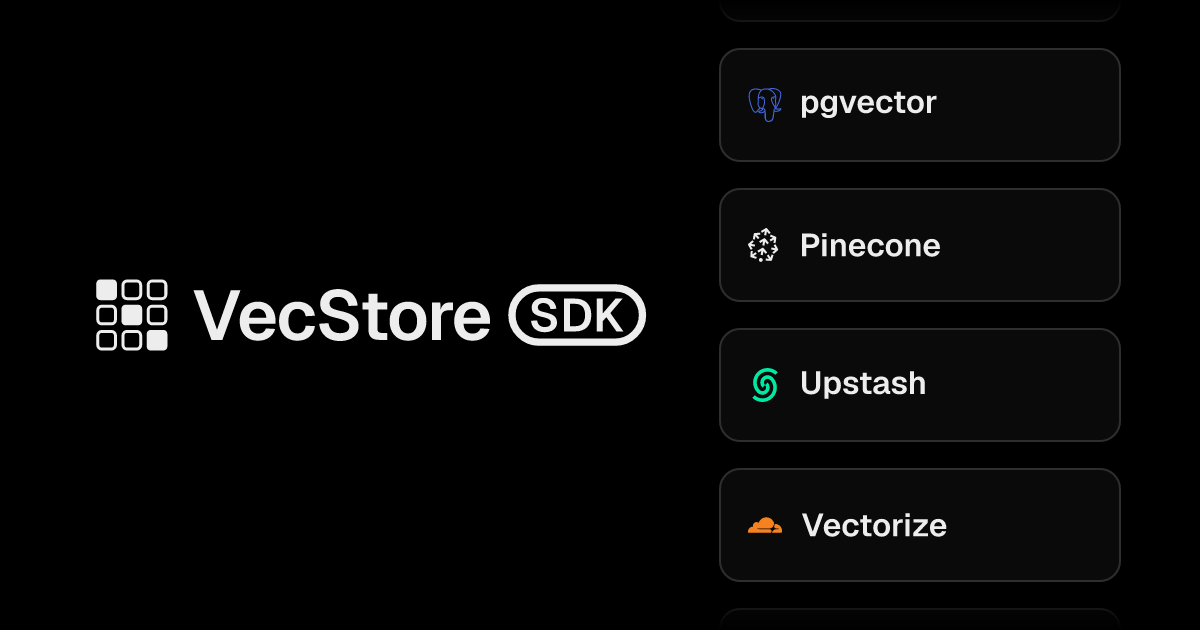
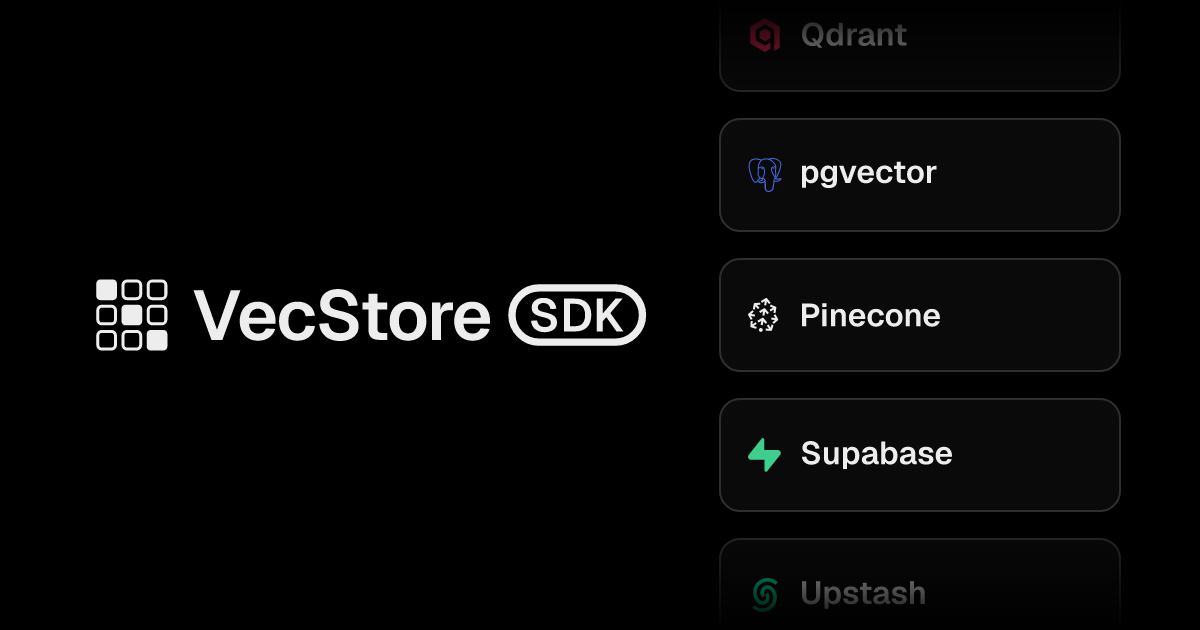
chore(assets): render one social card for the site and the docs default
app/opengraph-image.png drew its own column of six providers while the
docs backgrounds drew a window of five, so the card the site shares had
a different rhythm from every card a docs page shares. Six cards in the
same canvas leave 21px of the first and last row on screen, which the
fade then takes down to a stray rounded edge at each end.

The site card is the docs default with no provider active, so render it
once and write it to both paths. That also drops the filter that held
Supabase out of the site column to keep it at six.

diff --git a/scripts/render-web-icons.ts b/scripts/render-web-icons.ts
@@ -143,8 +143,6 @@ const providers: readonly ProviderRow[] = [
   { file: "redis.svg", id: "redis", label: "Redis", tint: REDIS_RED },
 ];
 
-const rows = providers.filter((row) => row.id !== "supabase");
-
 const providerIcon = (file: string, size: number, tint: string): string => {
   const svg = readFileSync(path.join(assets, "providers", file), "utf-8");
   const viewBox =
@@ -245,14 +243,6 @@ const logoTop = (OG_HEIGHT - OG_LOGO_WIDTH * logoRatio) / 2;
 
 const labelFont = loadFont(path.join(assets, "fonts", "Geist-SemiBold.ttf"));
 
-const openGraph = (): string => {
-  const { cards, mask } = column(rows, labelFont);
-  return frame(
-    mask,
-    `${logoImage(OG_LOGO_WIDTH, logoTop)}<g mask="url(#column-mask)"><g transform="translate(${format(columnX)} 0)">${cards}</g></g>`
-  );
-};
-
 const rotate = (by: number): readonly ProviderRow[] => [
   ...providers.slice(by),
   ...providers.slice(0, by),
@@ -267,7 +257,7 @@ const windowFor = (activeId?: string): readonly ProviderRow[] => {
   return rotate(offset).slice(0, COLUMN_WINDOW);
 };
 
-const docsBackground = (activeId?: string): string => {
+const socialCard = (activeId?: string): string => {
   const { cards, mask } = column(windowFor(activeId), labelFont, activeId);
   return frame(
     mask,
@@ -293,23 +283,18 @@ const run = (): void => {
       }))
     )
   );
-  writeFileSync(
-    path.join(output, "opengraph-image.png"),
-    renderPng(openGraph(), OG_WIDTH)
-  );
+  const defaultCard = renderPng(socialCard(), OG_WIDTH);
+  writeFileSync(path.join(output, "opengraph-image.png"), defaultCard);
   writeFileSync(
     path.join(output, "opengraph-image.alt.txt"),
     `VecStore SDK. ${TAGLINE}\n`
   );
   mkdirSync(ogOutput, { recursive: true });
-  writeFileSync(
-    path.join(ogOutput, "background.png"),
-    renderPng(docsBackground(), OG_WIDTH)
-  );
+  writeFileSync(path.join(ogOutput, "background.png"), defaultCard);
   for (const row of providers) {
     writeFileSync(
       path.join(ogOutput, `background-${row.id}.png`),
-      renderPng(docsBackground(row.id), OG_WIDTH)
+      renderPng(socialCard(row.id), OG_WIDTH)
     );
   }
   process.stdout.write("icons rendered\n");
